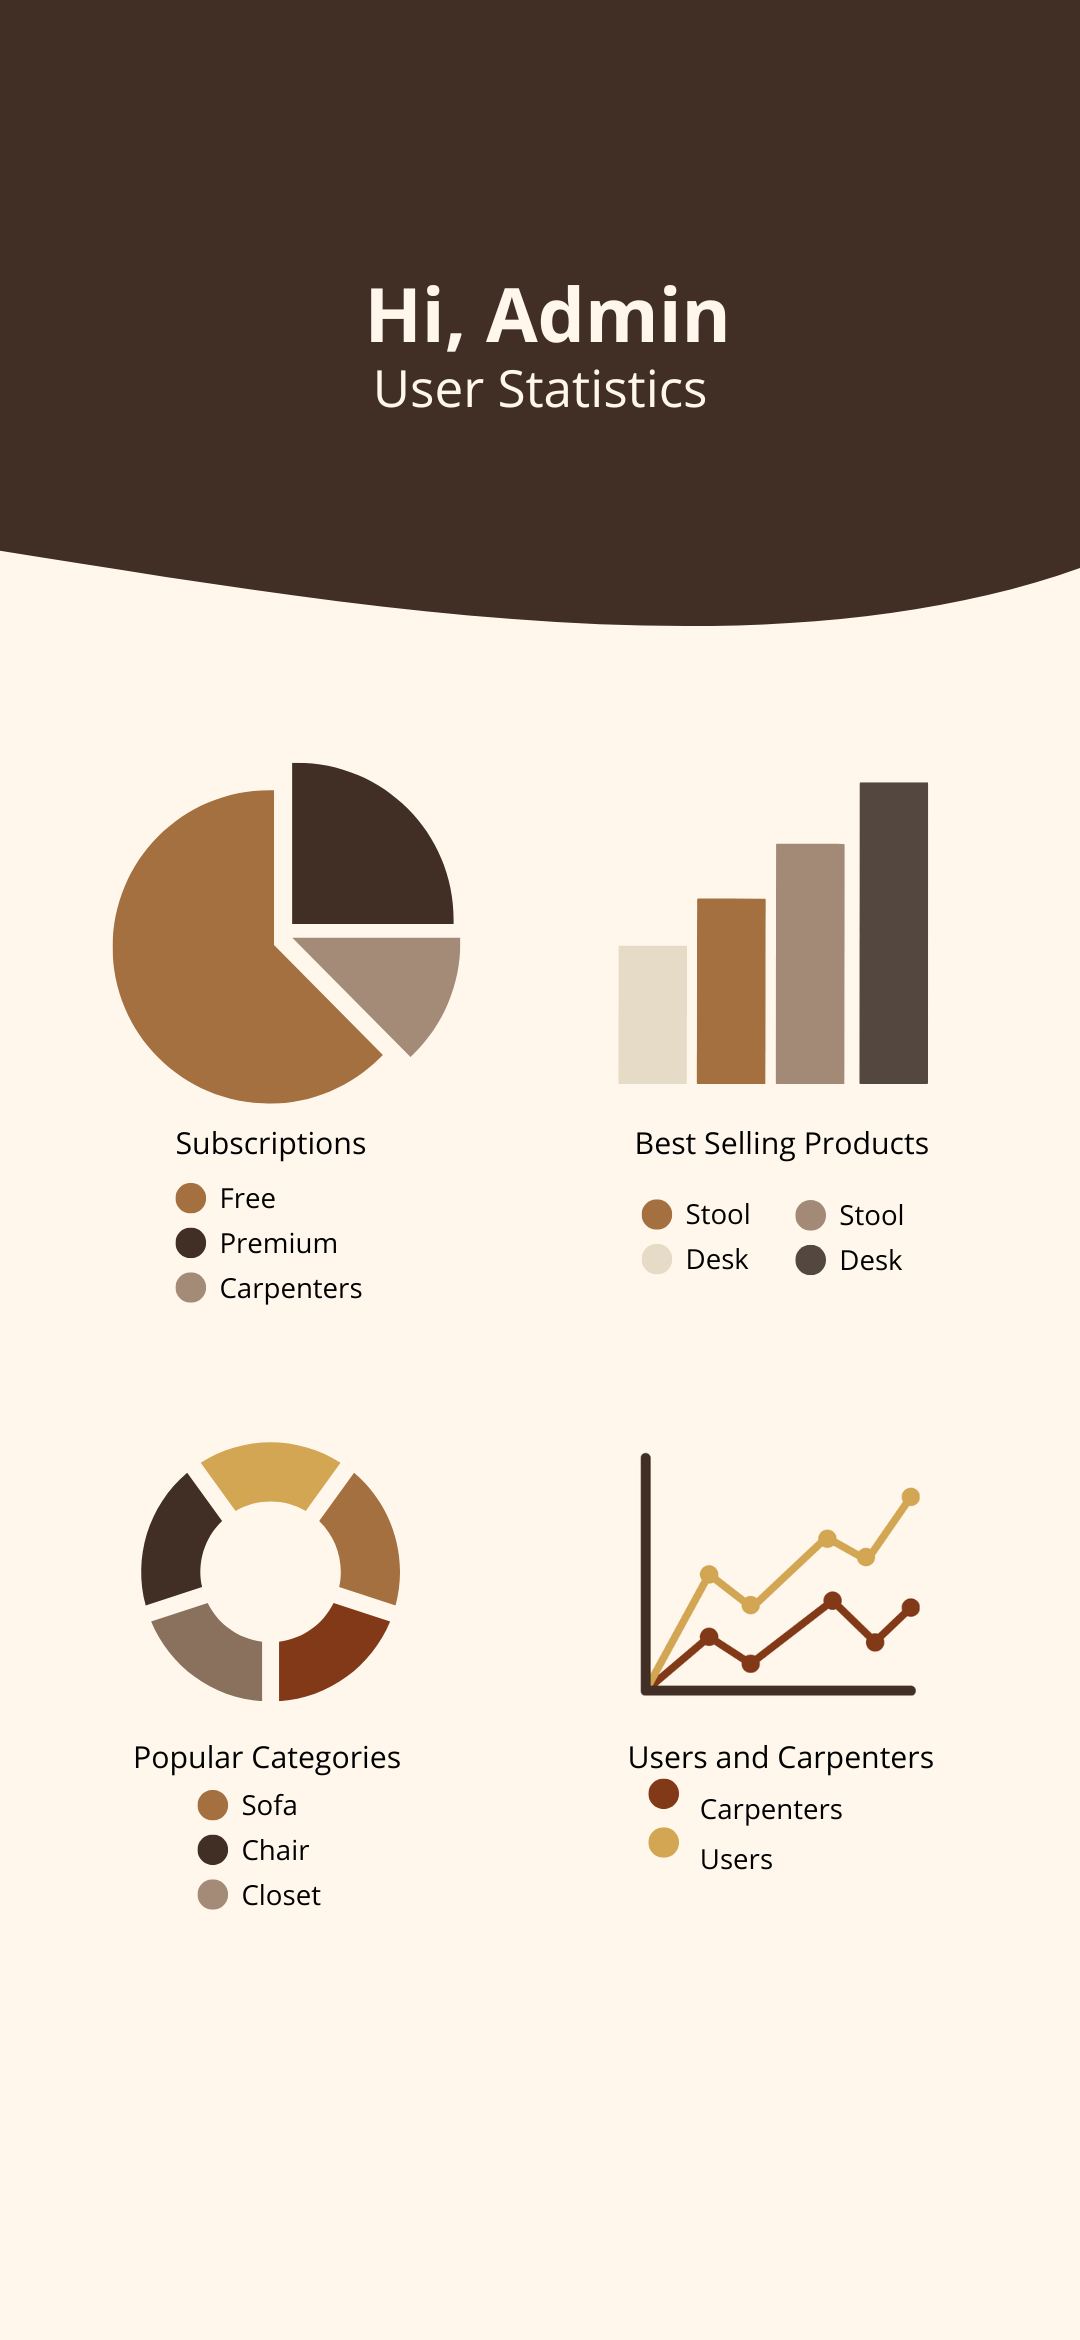
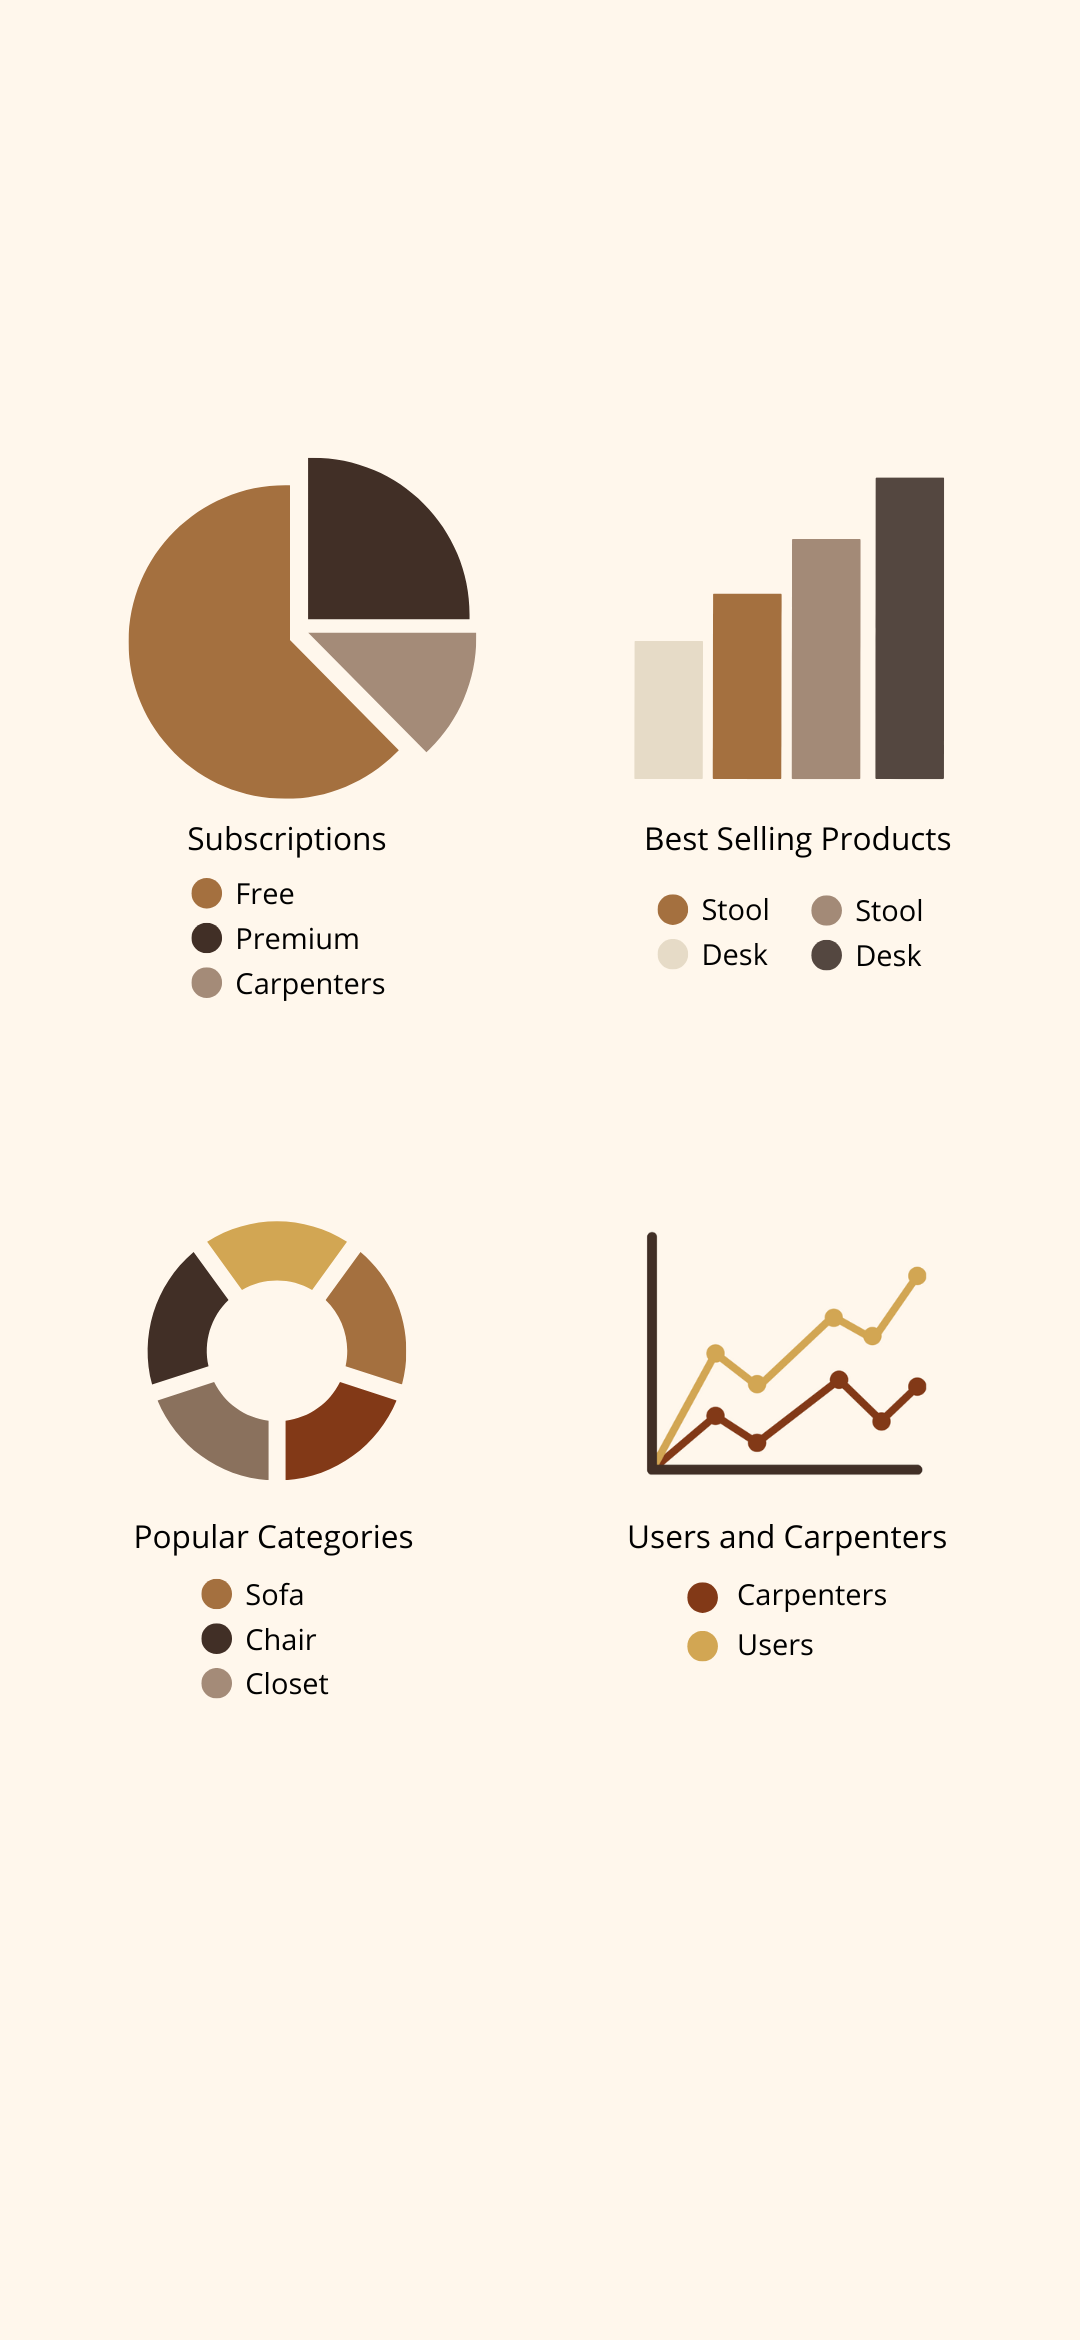
Ultimas correcciones app

diff --git a/app/(tabs)/ProfileScreen.tsx b/app/(tabs)/ProfileScreen.tsx
@@ -56,7 +56,9 @@ export default function ProfileScreen() {
         <View style={styles.sectionContent}>
           <TouchableOpacity style={styles.menuItem}>
             <View style={styles.menuItemLeft}>
-              <Feather name="folder" size={24} color="#412f26" />
+              <View style={styles.iconContainer}>
+                <Feather name="folder" size={24} color="#412f26" />
+              </View>
               <Text style={styles.menuItemText}>Saved</Text>
             </View>
             <MaterialIcons name="arrow-forward-ios" size={14} color="#412f26" />
@@ -64,7 +66,9 @@ export default function ProfileScreen() {
 
           <TouchableOpacity style={styles.menuItem}>
             <View style={styles.menuItemLeft}>
-              <Octicons name="download" size={24} color="#412f26" />
+              <View style={styles.iconContainer}>
+                <Octicons name="download" size={24} color="#412f26" />
+              </View>
               <Text style={styles.menuItemText}>Downloads</Text>
             </View>
             <MaterialIcons name="arrow-forward-ios" size={14} color="#412f26" />
@@ -78,7 +82,9 @@ export default function ProfileScreen() {
         <View style={styles.sectionContent}>
           <View style={styles.menuItem}>
             <View style={styles.menuItemLeft}>
-              <FontAwesome name="moon-o" size={24} color="#412f26" />
+              <View style={styles.iconContainer}>
+                <FontAwesome name="moon-o" size={24} color="#412f26" />
+              </View>
               <Text style={styles.menuItemText}>Dark Mode</Text>
             </View>
             <Switch
@@ -91,7 +97,9 @@ export default function ProfileScreen() {
 
           <TouchableOpacity style={[styles.menuItem, { paddingTop: 5 }]}>
             <View style={styles.menuItemLeft}>
-              <Entypo name="inbox" size={24} color="#412f26" />
+              <View style={styles.iconContainer}>
+                <Entypo name="inbox" size={24} color="#412f26" />
+              </View>
               <Text style={styles.menuItemText}>Suscription</Text>
               <Text style={styles.freeText}>Free</Text>
             </View>
@@ -189,9 +197,10 @@ const styles = StyleSheet.create({
     flexDirection: 'row',
     alignItems: 'center',
   },
-  menuItemRight: {
-    flexDirection: 'row',
+  iconContainer: {
+    width: 30,
     alignItems: 'center',
+    justifyContent: 'center',
   },
   menuItemText: {
     fontSize: 16,

diff --git a/app/(tabs)/AdminScreen.tsx b/app/(tabs)/AdminScreen.tsx
@@ -1,7 +1,7 @@
 import { NavigationParams } from '@/types/navigation';
 import { useLocalSearchParams } from 'expo-router';
 import React from 'react';
-import { StyleSheet, Text, View } from 'react-native';
+import { Image, StyleSheet, Text, View } from 'react-native';
 
 export default function AdminScreen() {
   const { name } = useLocalSearchParams<NavigationParams>();
@@ -9,10 +9,15 @@ export default function AdminScreen() {
   return (
     <View style={styles.container}>
       <View style={styles.header}>
-        <Text style={styles.headerTitle}>Admin Panel</Text>
+        <Text style={styles.headerTitle}>Hi, Admin</Text>
+        <Text style={styles.subTitle}>User Statistics</Text>
       </View>
-      <View style={styles.content}>
-        <Text style={styles.text}>Welcome to the admin panel</Text>
+      <View style={styles.imageContainer}>
+        <Image 
+          source={require('../../assets/images/adminPage.png')}
+          style={styles.image}
+          resizeMode="cover"
+        />
       </View>
     </View>
   );
@@ -27,24 +32,27 @@ const styles = StyleSheet.create({
     backgroundColor: '#4B3425',
     borderBottomLeftRadius: 40,
     borderBottomRightRadius: 40,
-    paddingTop: 50,
+    paddingTop: 70,
+    paddingBottom: 60,
     alignItems: 'center',
-    height: 150,
   },
   headerTitle: {
     fontSize: 28,
     fontWeight: 'bold',
     color: '#fff7ec',
-    marginBottom: 20,
+    marginBottom: 5,
   },
-  content: {
-    flex: 1,
-    alignItems: 'center',
-    justifyContent: 'center',
-    padding: 20,
-  },
-  text: {
+  subTitle: {
     fontSize: 18,
-    color: '#4B3425',
+    color: '#fff7ec',
+    opacity: 0.9,
   },
+  imageContainer: {
+    flex: 1,
+    overflow: 'hidden',
+  },
+  image: {
+    width: '100%',
+    height: '100%',
+  }
 }); 

diff --git a/app/(tabs)/CartScreen.tsx b/app/(tabs)/CartScreen.tsx
@@ -12,7 +12,7 @@ export default function CartScreen() {
         <Text style={styles.headerTitle}>Cart</Text>
       </View>
       <View style={styles.content}>
-        <Text style={styles.text}>Your shopping cart</Text>
+        <Text style={styles.text}>Your shopping cart is empty</Text>
       </View>
     </View>
   );
